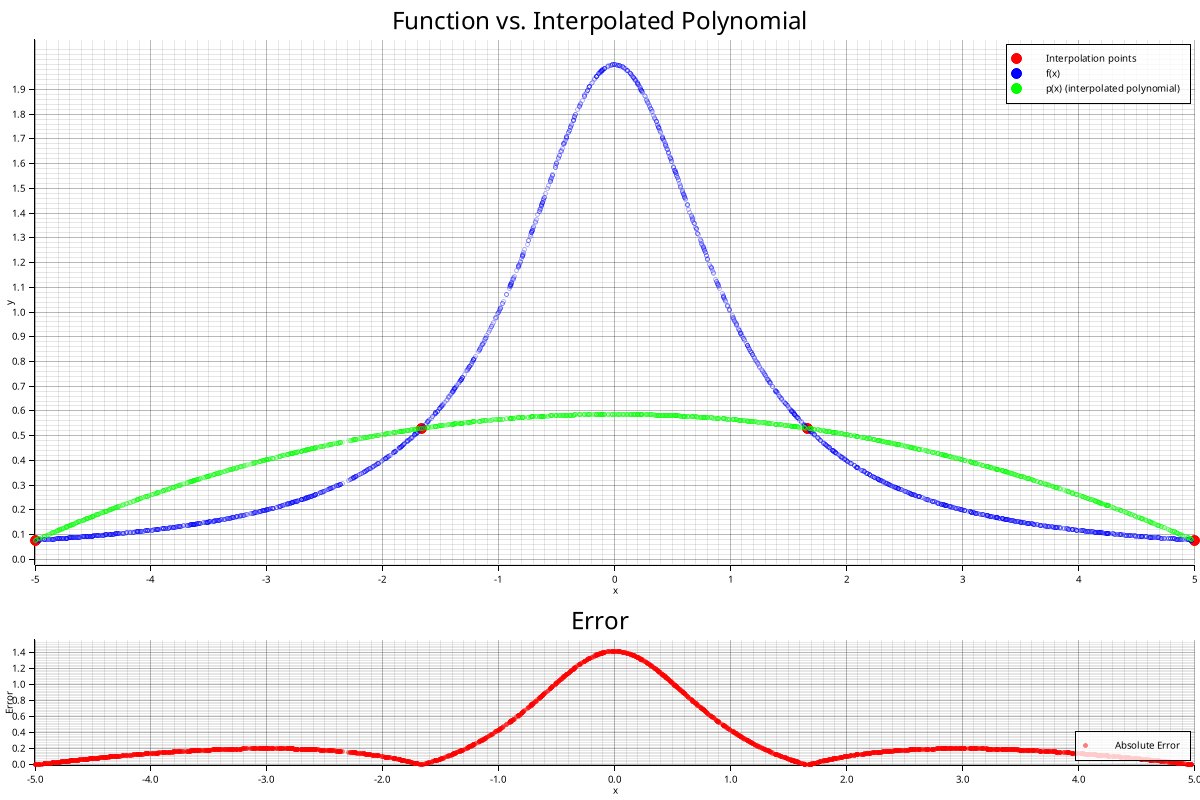
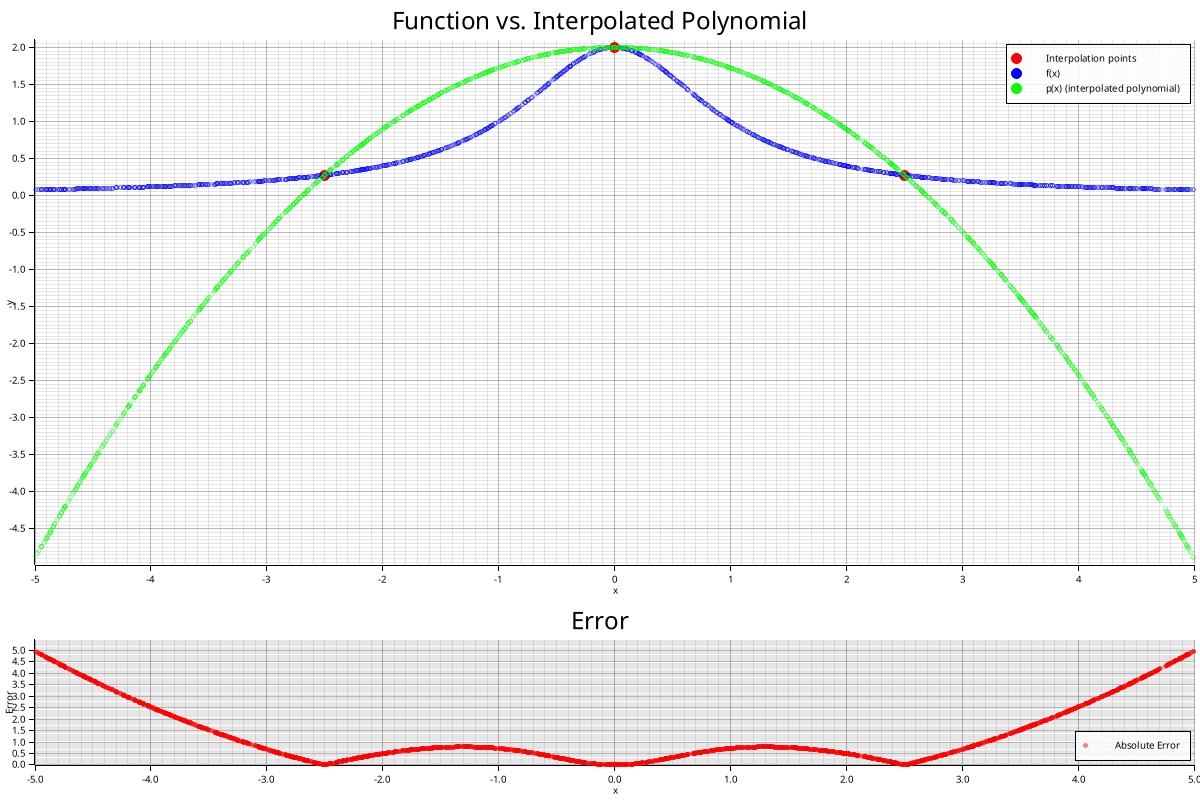
fix points in interval

diff --git a/solutions/rust/hw2/src/q5.rs b/solutions/rust/hw2/src/q5.rs
@@ -147,9 +147,9 @@ fn evaluate_on_rand(
 }
 
 fn solve_q5(a: f64, b: f64, n: i32) {
-    let step = (b - a) / (n + 1) as f64;
+    let step = (b - a) / (n + 2) as f64;
     println!("Polynomial will have degree of {}", n);
-    let x_k: Vec<f64> = (0..n + 1).map(|i| a + (i as f64) * step).collect();
+    let x_k: Vec<f64> = (1..n + 2).map(|i| a + (i as f64) * step).collect();
 
     println!("Evenly spaced points on [{}, {}]: {:?}", a, b, x_k);
 
